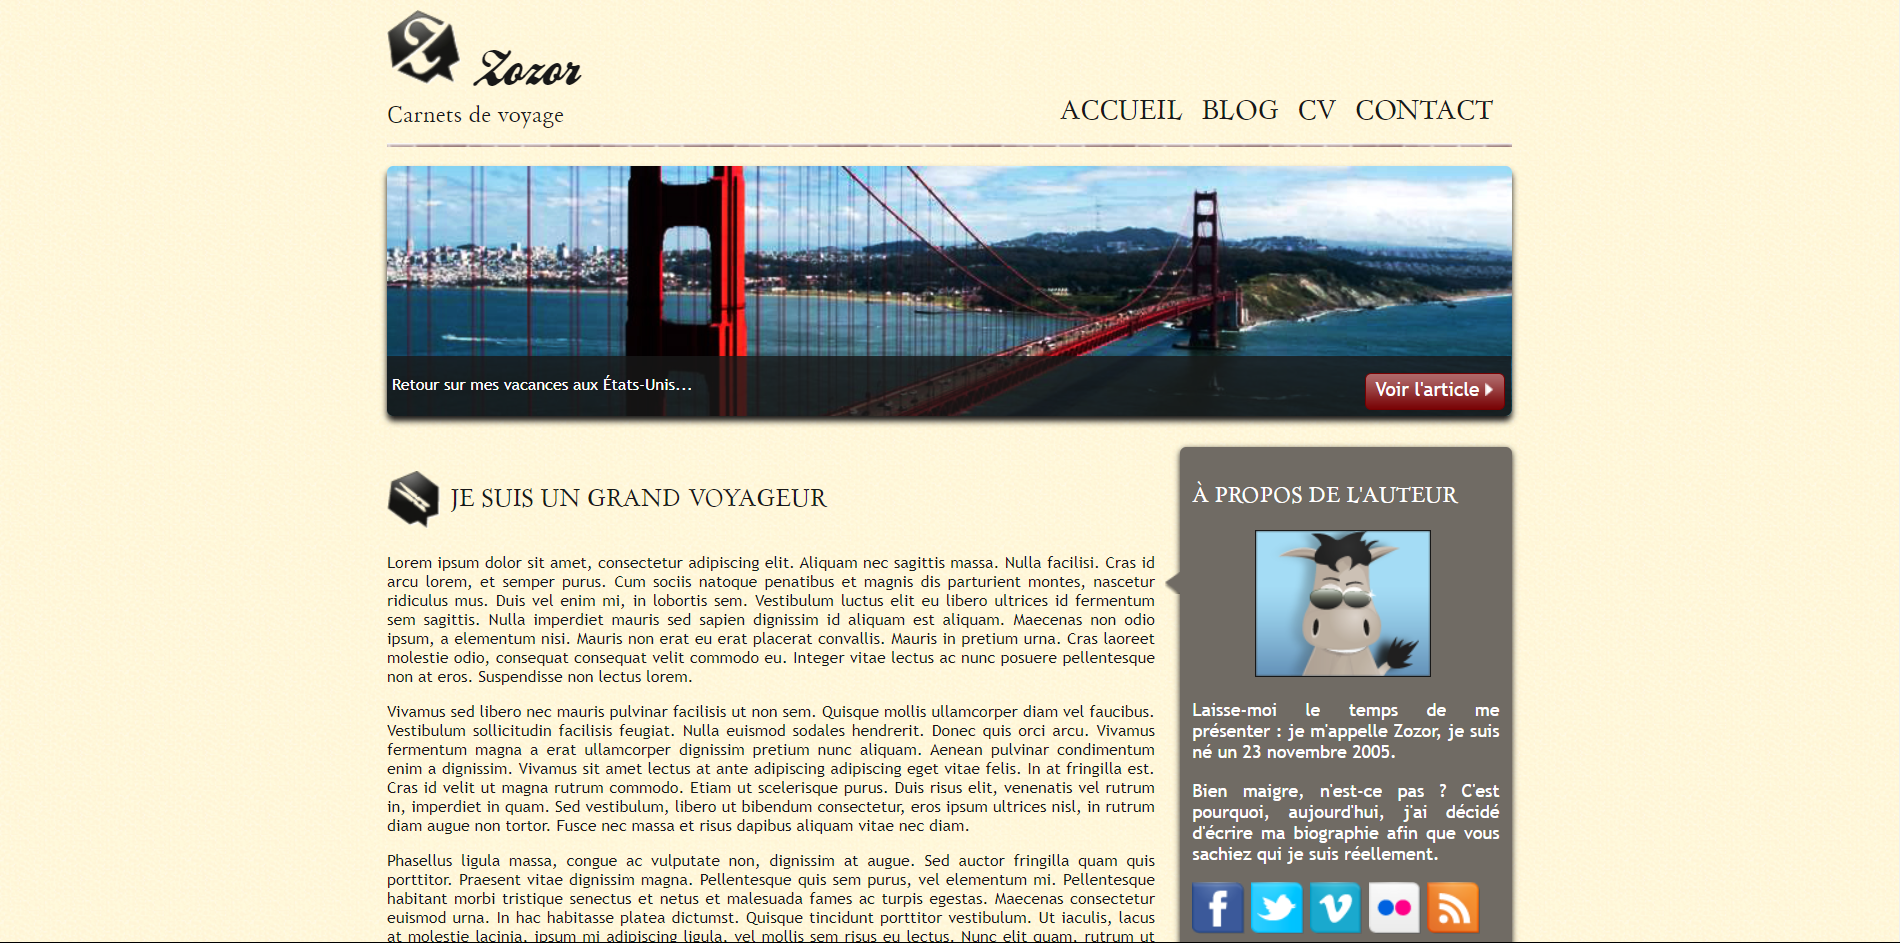
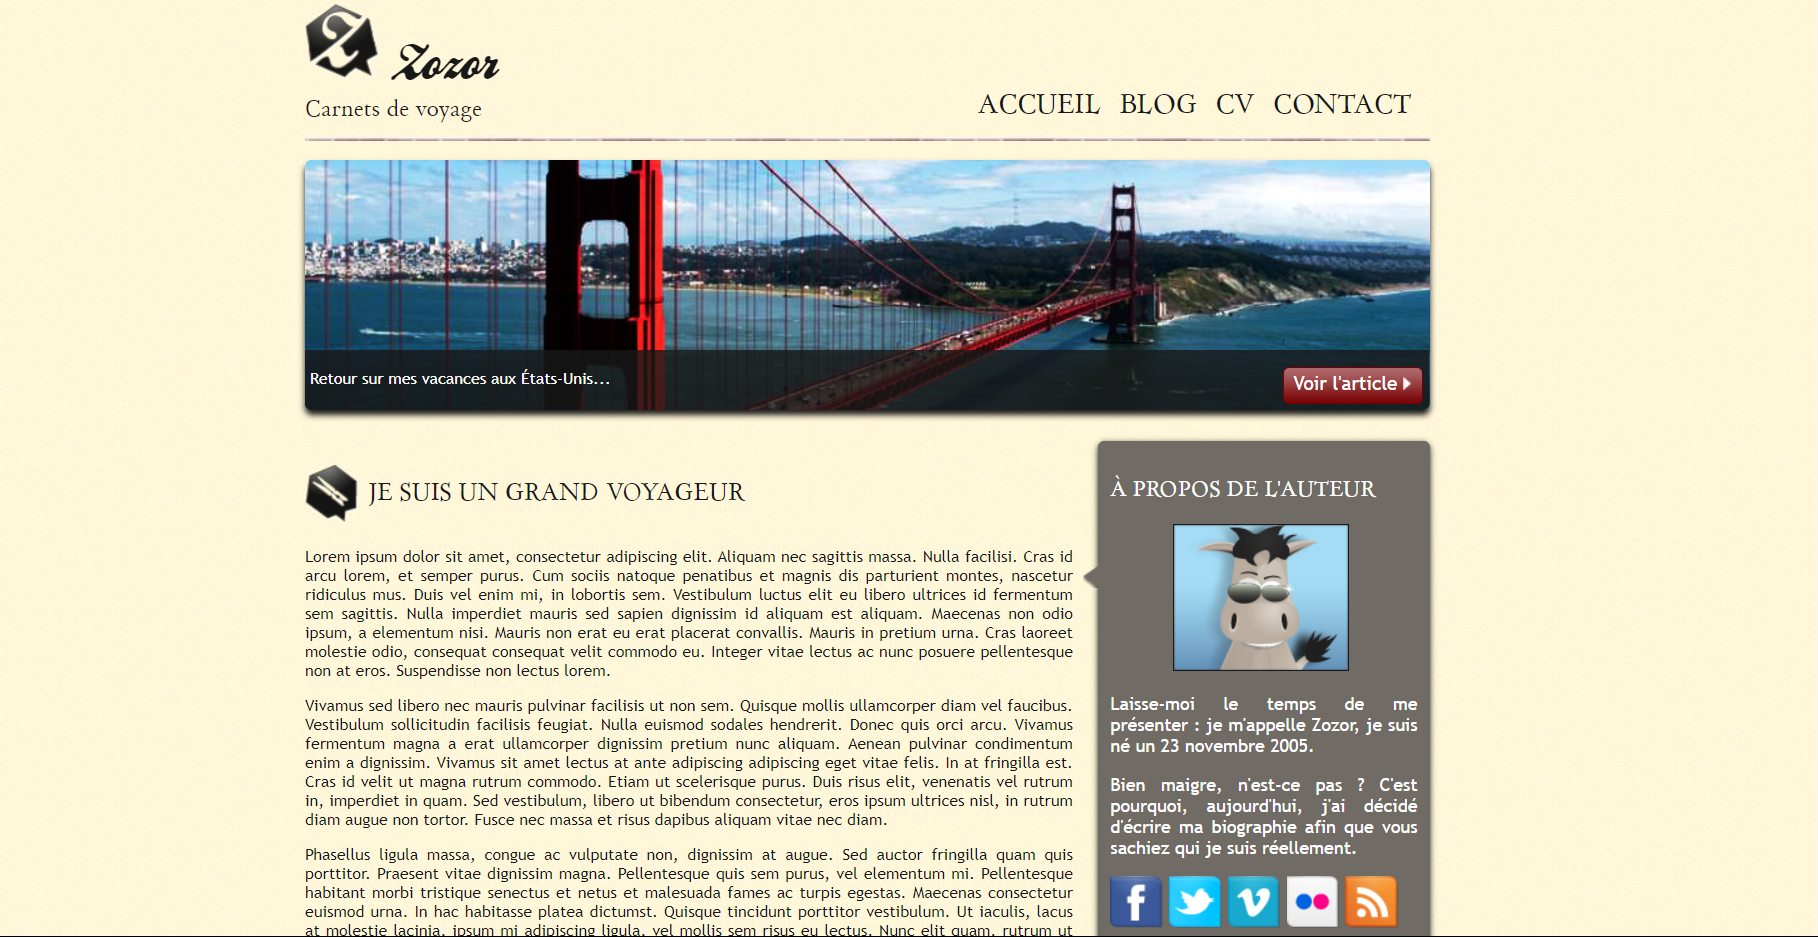
save

Changed region(s): [[0.154, 0.0, 0.8009, 1.0], [0.154, 0.4952, 0.4312, 0.5571]]

diff --git a/src/info/info.js b/src/info/info.js
@@ -6,10 +6,9 @@ import projet7 from "../assets/homep7.png";
 import imageP3 from "../assets/homep3.png";
 import imageP6 from "../assets/homep6.png";
 import imageP7 from "../assets/homep7.png";
-import image8 from "../assets/homep2.png";
+import image8 from "../assets/homeBlogVoyage.png";
 
 export let colors = ["rgb(0,255,164)", "rgb(166,104,255)"];
-/*https://gradientgenerator.paytonpierce.dev/ */
 
 export const info = {
     firstName: "Manuel",
